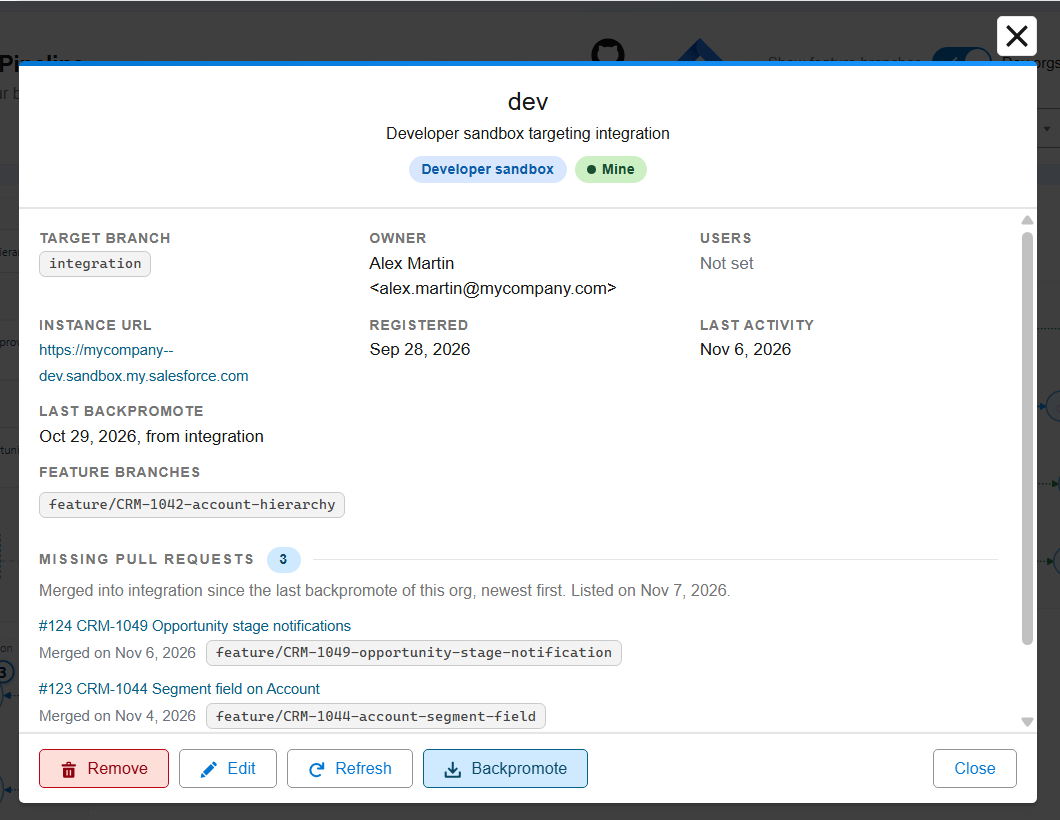
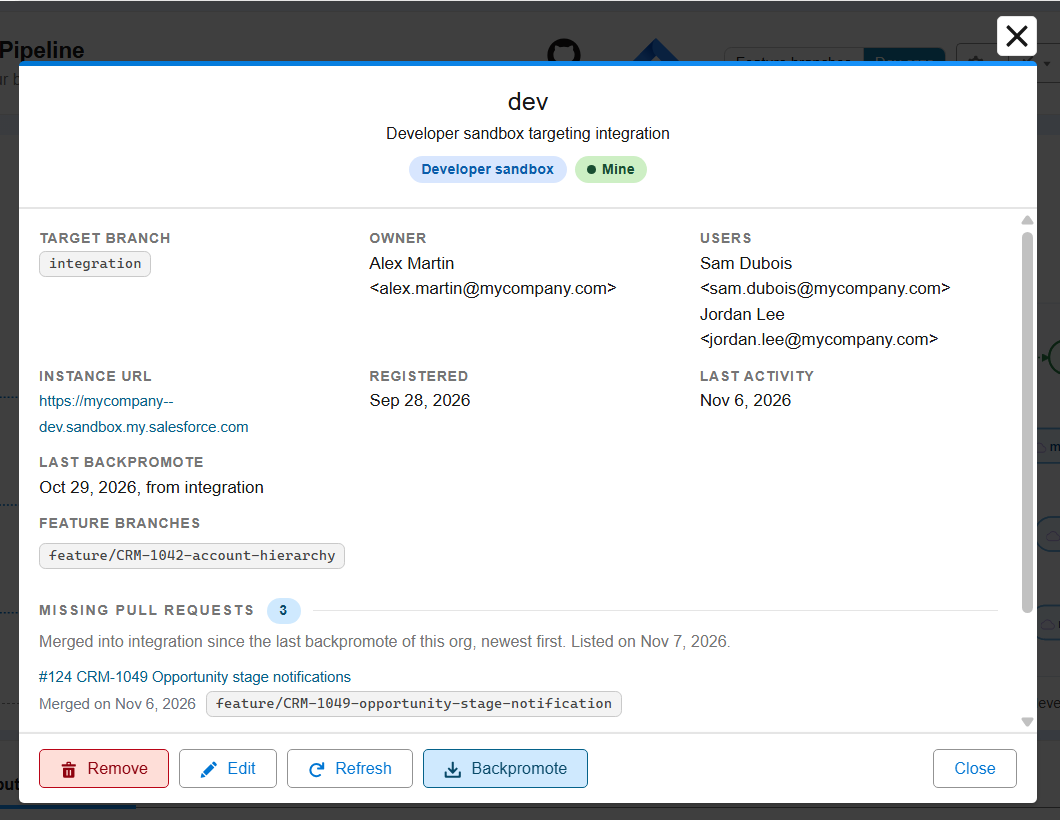
docs(dev-orgs): the Dev orgs view of the DevOps Pipeline, e2e checks read its two views

diff --git a/docs/salesforce-devops-dev-orgs.md b/docs/salesforce-devops-dev-orgs.md
@@ -12,13 +12,13 @@ sfdx-hardis keeps the list of these development orgs, with the branch each of th
 
 ## Where you see it
 
-- **In VS Code**, the DevOps Pipeline shows your development orgs under their target branch, with the number of Pull Requests they miss. The toggle at the top shows **your orgs** (the default: you are their owner or one of their users), **all** the orgs, or **none**. Click an org to see what it misses, and to run a backpromote, edit it or remove it.
+- **In VS Code**, once an org is registered, the switch at the top of the DevOps Pipeline shows either the **Feature branches** (the default) or the **Dev orgs**: the major branches, with every development org next to the branch it targets and the number of Pull Requests it misses. Click an org to see what it misses, and to run a backpromote, edit it or remove it.
 
-  ![DevOps Pipeline with the development orgs of the team under their target branch](assets/images/dev-orgs-pipeline.png)
+  ![DevOps Pipeline showing the development orgs of the team next to their target branch](assets/images/dev-orgs-pipeline.png)
 
-  Here, `dev` misses 3 Pull Requests merged into integration since its last backpromote, the scratch org `crm-1061` misses 1, and `dev2` has them all. `qa` targets uat: nobody used it for more than 30 days, so it is drawn as inactive, and it misses the promotion of integration into uat.
+  Here, the BUILD team works on integration: `dev` misses 3 Pull Requests merged into integration since its last backpromote, the scratch org `crm-1061` misses 1, and `dev2` has them all. The RUN team fixes production from `devHotfix`, which targets preprod and misses the last promotion of uat into preprod. An org nobody used for 30 days is drawn as inactive.
 
-  ![Details window of a development org, with the Pull Requests it misses and its Backpromote button](assets/images/dev-orgs-details.png)
+  ![Details window of a development org: its owner and users, and the Pull Requests it misses](assets/images/dev-orgs-details.png)
 
 - **On your git provider**, the list is a "Development Orgs Dashboard": an issue on GitHub and GitLab, a work item on Azure DevOps, a dedicated Pull Request on Bitbucket. sfdx-hardis rewrites its text at every update: never edit it by hand.
 - **In a terminal**, [hardis:project:dev-org:list](hardis/project/dev-org/list.md) prints the list (`--mine` for your orgs only).

diff --git a/.claude/skills/e2e/scenarios/dev-orgs/README.md b/.claude/skills/e2e/scenarios/dev-orgs/README.md
@@ -70,7 +70,7 @@ Run it in the background and watch the `[FAIL]` lines.
 | `new`          | No dashboard before; `work:new --agent --target-org <dev org> --target-branch integration` prints the registration; one open dashboard issue holding one comment for the org, a body that says not to edit it; `dev-org:list` shows the org (scratch, target integration, owned by the git user, mine, `behind` null). |
 | `other-target` | `work:new` on uat in the same org warns "is registered for target branch integration, not uat"; the registered target stays integration.                                                                                |
 | `merge-1`      | Pull Request #1 (a label change) validated, merged into integration; its deployment job prints "Development orgs list updated"; the dashboard holds a `branch` comment of integration listing #1; the org misses #1. |
-| `pipeline-1`   | The DevOps Pipeline draws the org with a bubble of 1, in the "mine" and "all" diagrams.                                                                                                                               |
+| `pipeline-1`   | The "Dev orgs" view of the DevOps Pipeline draws the org with a bubble of 1; the "Feature branches" view draws no dev org.                                                                                            |
 | `edit`         | `register --org-id --target-branch uat --owner --users`: target uat, new owner, the git user still a user (mine), nothing counted for uat yet.                                                                       |
 | `vehicle`      | integration merged into uat; the deployment job of uat updates the list; the org misses one Pull Request, the vehicle, which carries #1 (from the scope `deploy:smart` computed).                                       |
 | `backpromote`  | `work:backpromote` from uat into the dev org (plan, then `--agent --run-id --from-pull-request`); `lastBackpromote` is from uat; the org misses nothing.                                                                 |
